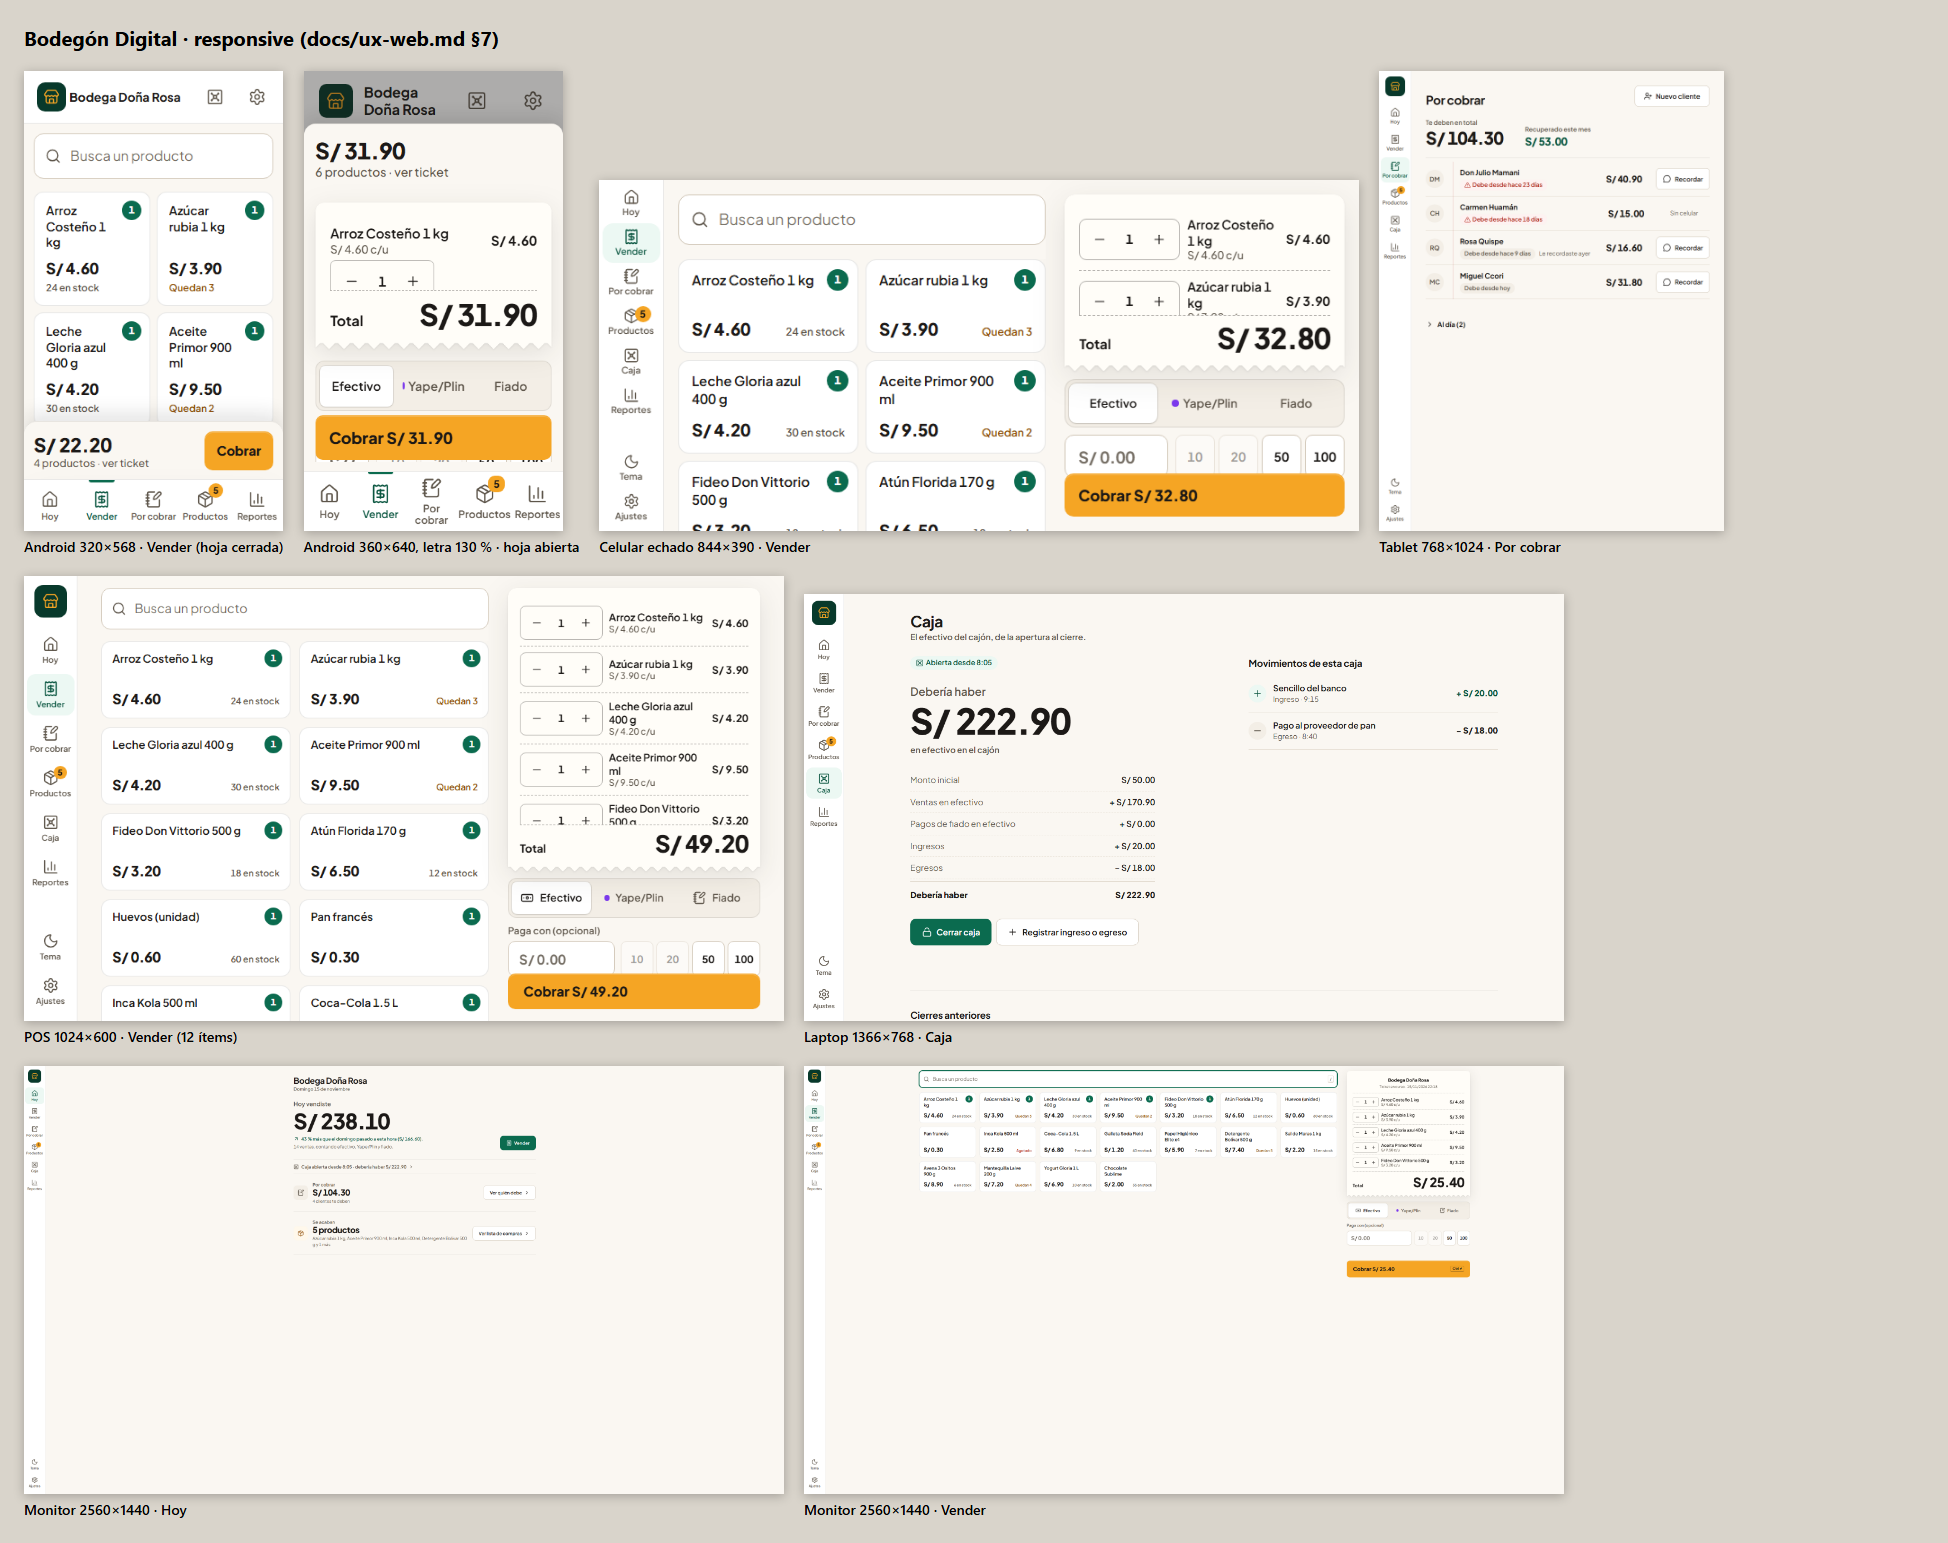
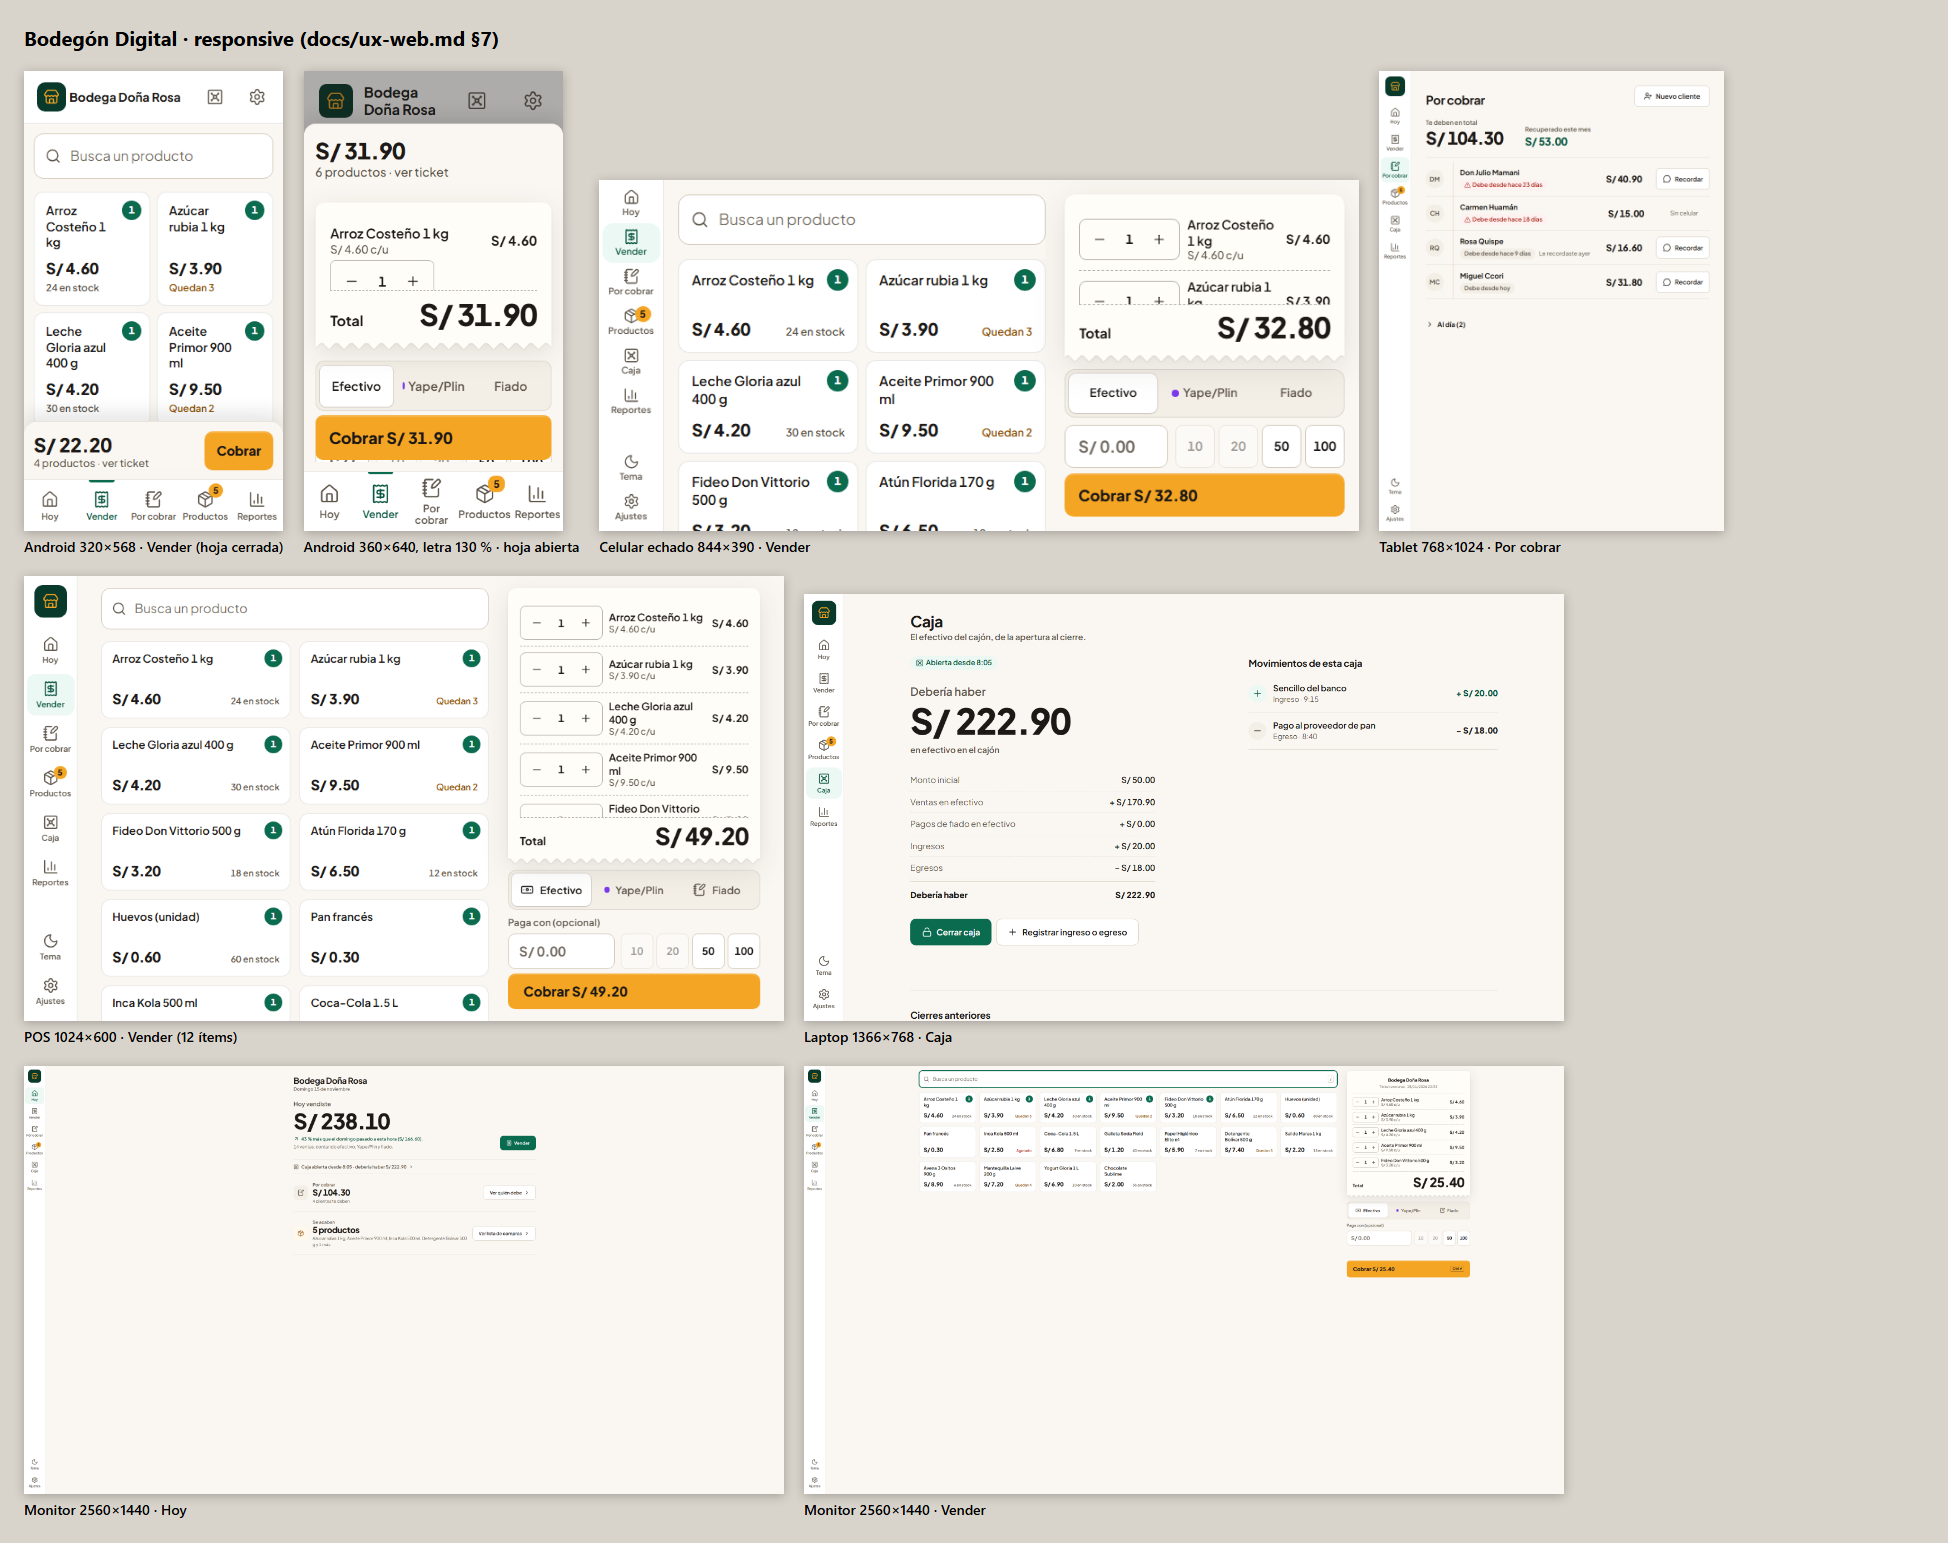
Web: responsive con letra al 130 % en 320 px y ticket angosto
- Hoja del ticket: el ticket cede alto con factor 20 (antes el cobro con 0.15
  quedaba sin encoger y Cobrar salía de la hoja en 320 px con letra grande).
- Ticket muy angosto: ítems en dos renglones y "Paga con" a todo el ancho.
- Chips y botones parten renglón bajo 480 px; montos de Hoy y Caja fluidos;
  rejillas de una columna con minmax(0, 1fr).
- Sticky (búsqueda, periodo, ticket) bajo la cabecera móvil y sobre la barra.
- Regresión: 320 px con letra al 130 % y vista previa de WhatsApp; el helper
  vuelve a buscar los botones del catálogo en cada clic (se repintan).

Changed region(s): [[0.5544, 0.1866, 0.7084, 0.3111], [0.2464, 0.5288, 0.4004, 0.6222], [0.3388, 0.5911, 0.3696, 0.6222]]

diff --git a/web/css/app.css b/web/css/app.css
@@ -722,6 +722,18 @@ kbd {
   background: var(--sup-2);
   color: var(--texto-2);
   white-space: nowrap;
+  max-width: 100%;
+}
+/* Con poco ancho (320 px, letra grande) el chip parte en dos renglones antes que desbordar. */
+@media (max-width: 479px) {
+  .chip {
+    white-space: normal;
+    border-radius: var(--r-md);
+  }
+  .btn {
+    white-space: normal;
+    text-align: center;
+  }
 }
 .chip-atraso {
   background: var(--deuda-fondo);
@@ -1106,7 +1118,7 @@ body.con-panel {
   margin: 0 0 0.25rem;
 }
 .hoy-monto {
-  font-size: clamp(3rem, 8vw, 4.5rem);
+  font-size: clamp(2.25rem, 1rem + 8vw, 4.5rem);
   margin: 0;
 }
 .hoy-comparacion {
@@ -1160,7 +1172,7 @@ body.con-panel {
 }
 @media (max-width: 767px) {
   .hoy-principal {
-    grid-template-columns: 1fr;
+    grid-template-columns: minmax(0, 1fr);
   }
   .hoy-fila {
     grid-template-columns: 2.5rem 1fr;
@@ -1375,13 +1387,21 @@ body.con-panel {
     grid-area: 2 / 1 / 3 / -1;
     justify-self: start;
   }
+  /* "Paga con" a todo el ancho y los billetes debajo: el monto escrito se lee completo. */
+  .vuelto-fila {
+    grid-template-columns: minmax(0, 1fr);
+  }
+  .billetes button {
+    flex: 1 1 0;
+  }
   .ticket-sombra:has(.ticket-items) {
     --ticket-min: min(14rem, 32dvh);
   }
 }
 .ticket-sombra {
   filter: drop-shadow(0 1px 1px rgba(28, 25, 23, 0.08)) drop-shadow(0 10px 18px rgba(28, 25, 23, 0.1));
-  flex: 0 1 auto;
+  /* Cede alto mucho antes que el cobro (factor 20 contra 1). */
+  flex: 0 20 auto;
   min-height: 0;
   display: flex;
   flex-direction: column;
@@ -1394,8 +1414,7 @@ body.con-panel {
   min-height: var(--ticket-min, min(11.5rem, 32dvh));
 }
 #cobro-zona {
-  /* Cede mucho menos que el ticket: la forma de pago debe seguir a la vista. */
-  flex: 0 0.15 auto;
+  flex: 0 1 auto;
   min-height: 3.5rem;
   overflow-y: auto;
   overscroll-behavior: contain;
@@ -2375,7 +2394,7 @@ body.con-panel {
 }
 @container reportes (max-width: 56rem) {
   .analisis {
-    grid-template-columns: 1fr;
+    grid-template-columns: minmax(0, 1fr);
   }
 }
 @container reportes (max-width: 44rem) {
@@ -2437,7 +2456,7 @@ body.con-panel {
   margin: 0 0 0.25rem;
 }
 .caja-esperado {
-  font-size: clamp(3rem, 7vw, 4rem);
+  font-size: clamp(2.25rem, 1rem + 7vw, 4rem);
   margin: 0;
 }
 .caja-etiqueta-pie {
@@ -2748,7 +2767,7 @@ body.con-panel {
 
 @media (max-width: 1023px) {
   .caja-layout {
-    grid-template-columns: 1fr;
+    grid-template-columns: minmax(0, 1fr);
     gap: 2rem;
   }
 }
@@ -2760,7 +2779,7 @@ body.con-panel {
     flex: 1 1 100%;
   }
   .caja-form-mov .dos-col {
-    grid-template-columns: 1fr;
+    grid-template-columns: minmax(0, 1fr);
   }
   .tabla-cierres thead {
     display: none;
@@ -2920,7 +2939,7 @@ body.con-panel {
 }
 @media (max-width: 899px) {
   .login {
-    grid-template-columns: 1fr;
+    grid-template-columns: minmax(0, 1fr);
   }
   .login-marca {
     padding: 1.5rem 1rem 2rem;

diff --git a/web/e2e/responsive.spec.ts b/web/e2e/responsive.spec.ts
@@ -38,7 +38,7 @@ const MATRIZ: Dispositivo[] = [
 ];
 
 /** Escala de fuente de Android al 130 % (raíz de 20.8 px) en una muestra de la matriz. */
-const LETRA_GRANDE = ['Android 360', 'Celular echado 844', 'Tablet 768', 'POS 1024', 'Laptop 1366'];
+const LETRA_GRANDE = ['Android 320', 'Android 360', 'Celular echado 844', 'Tablet 768', 'POS 1024', 'Laptop 1366'];
 
 const PANTALLAS: Array<{ nombre: string; ruta: string }> = [
   { nombre: 'Ingreso', ruta: '/?demo=1&pantalla=login' },
@@ -129,6 +129,14 @@ for (const d of MATRIZ) {
             await esperarAnimaciones(page);
           }
         }
+      });
+
+      test('Por cobrar: la vista previa de WhatsApp cabe y su botón queda a la vista', async ({ page }) => {
+        await page.goto('/?demo=1#cobrar');
+        await page.locator('[data-recordar]:visible').first().click();
+        await esperarAnimaciones(page);
+        expect(await desbordeHorizontal(page)).toBeLessThanOrEqual(0);
+        expect(await aLaVista(page, '#abrir-wa'), 'Abrir WhatsApp a la vista').toBe(true);
       });
 
       for (const p of PANTALLAS) {

diff --git a/docs/ux-web.md b/docs/ux-web.md
@@ -104,6 +104,6 @@ La web tiene que funcionar igual de bien en un Android barato de 320 px, un celu
 - Celular echado, tablet chica y POS (35 a 60 rem): riel compacto y dos columnas con un ticket angosto (sin cabecera del negocio cuando el alto es de 640 px o menos).
 - Tablet y escritorio: catálogo y ticket fijo. El ticket nunca es más alto que la pantalla: primero cede la lista de ítems (se desplaza por dentro) y después el bloque de cobro, que se desplaza con "Cobrar" pegado abajo.
 
-**Regresión automática:** `npm run test:responsive -w web` (Playwright, solo Chromium) levanta el servidor de desarrollo en modo demo y recorre 22 viewports (más 5 con letra al 130 %). En cada uno comprueba que ninguna pantalla tenga scroll horizontal y que en Vender, con 4 y con 14 ítems, el total y "Cobrar" estén completos en pantalla y sin nada encima. Necesita `npx playwright install chromium` una vez por máquina; por eso no forma parte de `npm run verify`. Para revisar a ojo cualquier tamaño en el Chrome de escritorio: `npm run dev -w web` y abrir `/dev-harness.html?w=360&h=640&fs=20.8&ruta=%2F%3Fdemo%3D1%23vender` (el arnés no entra al build).
+**Regresión automática:** `npm run test:responsive -w web` (Playwright, solo Chromium) levanta el servidor de desarrollo en modo demo y recorre 22 viewports (más 6 con letra al 130 %, incluido el de 320 px). En cada uno comprueba que ninguna pantalla tenga scroll horizontal y que en Vender, con 4 y con 14 ítems, el total y "Cobrar" estén completos en pantalla y sin nada encima, y que la vista previa de WhatsApp quepa con su botón a la vista. Necesita `npx playwright install chromium` una vez por máquina; por eso no forma parte de `npm run verify`. Para revisar a ojo cualquier tamaño en el Chrome de escritorio: `npm run dev -w web` y abrir `/dev-harness.html?w=360&h=640&fs=20.8&ruta=%2F%3Fdemo%3D1%23vender` (el arnés no entra al build).
 
 Capturas de referencia: `docs/rediseno/responsive/`.
